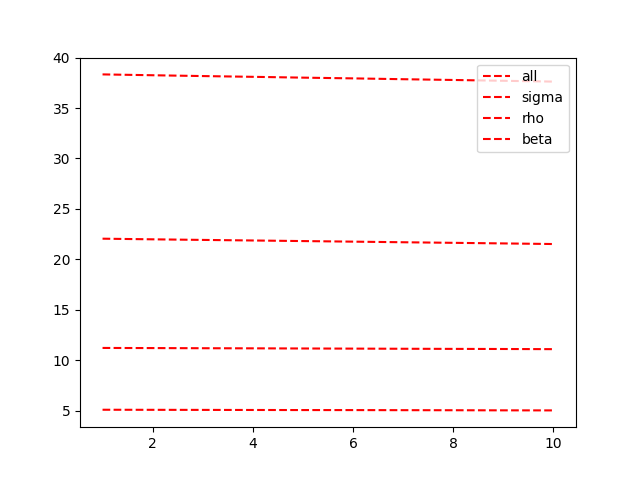
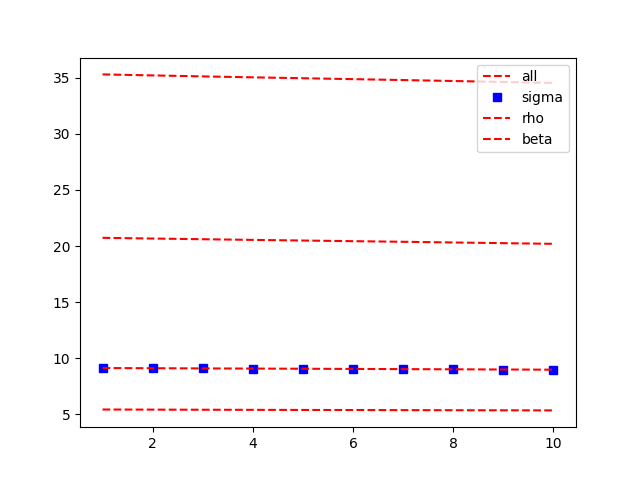
test

diff --git a/lorenz_nn.py b/lorenz_nn.py
@@ -255,7 +255,7 @@ plt.savefig(os.path.join(my_results_path_abso, my_results_file0))
 x_axis1 = np.arange(1,EPOCH+1)
 print(x_axis1)
 #plt.plot(x_axis1, error_all, 'r--', x_axis1, error_sigma, 'bs', x_axis1, error_rho, 'g^', x_axis1, error_beta, 'y*')
-plt.plot(x_axis1, error_all, 'r--')
+plt.plot(x_axis1, error_all, 'r--', x_axis1, error_sigma, 'bs')
 plt.plot(x_axis1, error_sigma, 'r--')
 plt.plot(x_axis1, error_rho, 'r--')
 plt.plot(x_axis1, error_beta, 'r--')
